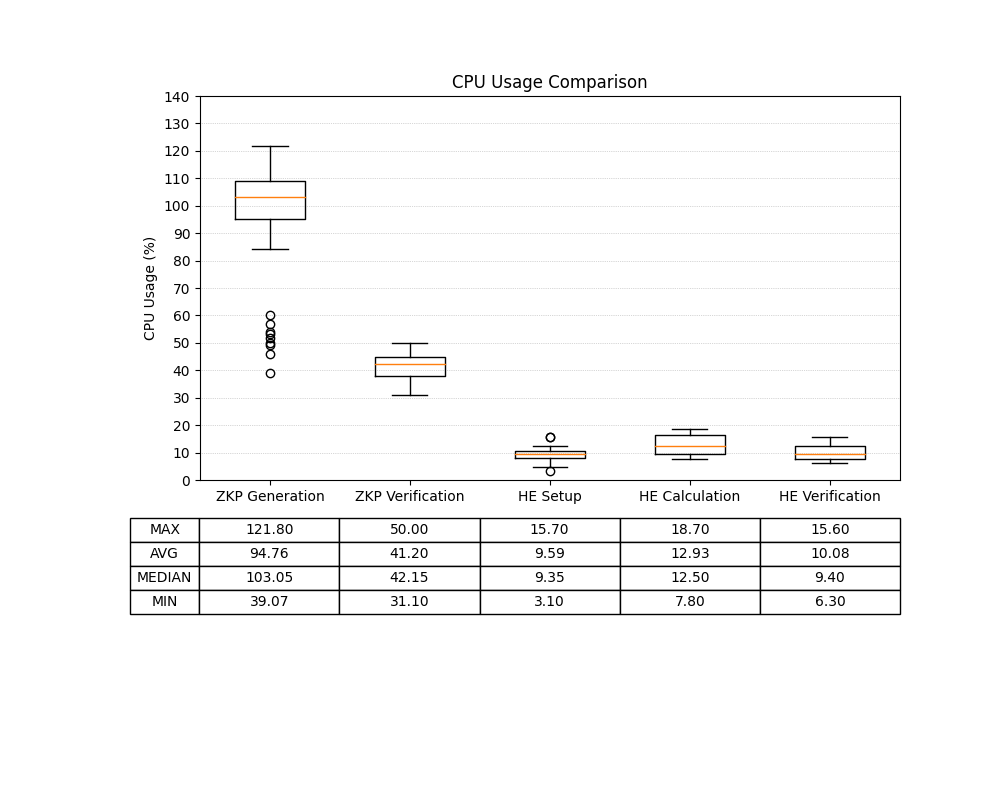
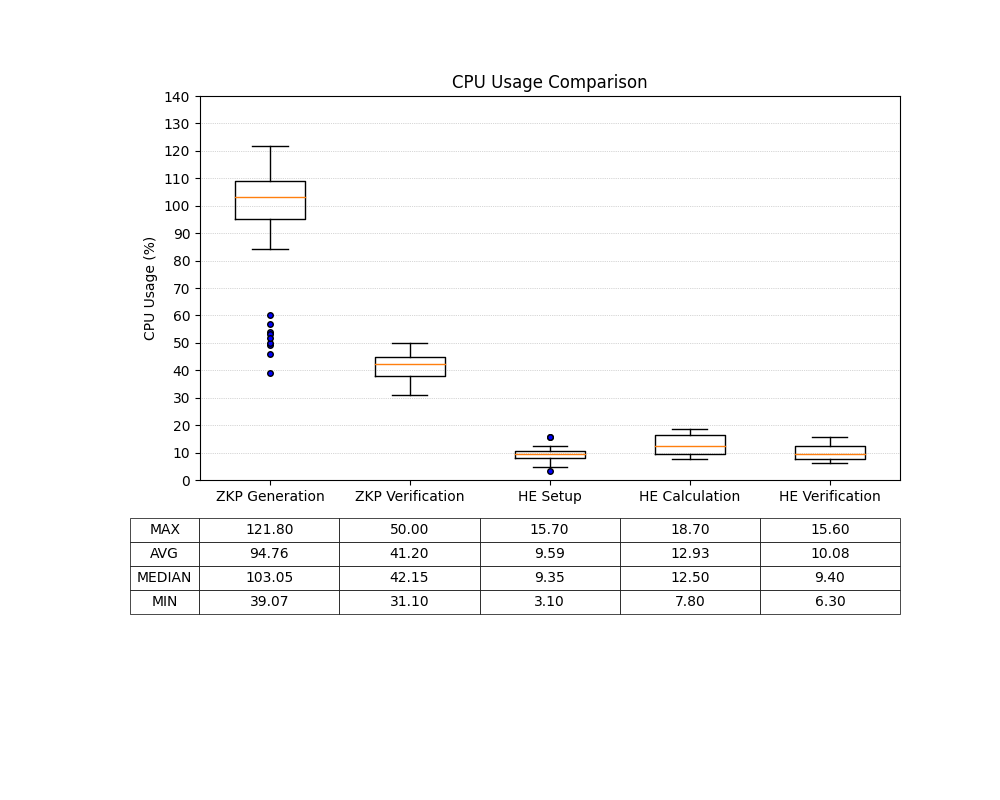
improve graph and table design

Changed region(s): [[0.124, 0.625, 0.899, 0.7812], [0.248, 0.375, 0.279, 0.4688], [0.527, 0.5312, 0.558, 0.5625]]

diff --git a/evaluation/generateGraphs.py b/evaluation/generateGraphs.py
@@ -31,14 +31,17 @@ def filter_non_zero(data):
 
 def plot_comparison(data, labels, title, y_label, filename):
     fig, ax = plt.subplots(figsize=(10, 8))
-    ax.boxplot(data, labels=labels)
+
+    # Adjust flierprops to fill the outlier dots with blue and make them smaller
+    flierprops = dict(marker='o', color='red', markersize=4, markerfacecolor='blue')
+    ax.boxplot(data, labels=labels, flierprops=flierprops)
+
     ax.set_title(title)
     ax.set_ylabel(y_label)
     ax.set_ylim(bottom=0)
     ax.grid(axis='y', linestyle=':', linewidth=0.5)  # Add dotted horizontal grid lines
 
     # Increase the number of y-axis ticks
-    ax = plt.gca()
     y_ticks = ax.get_yticks()
     new_y_ticks = []
     for i in range(1, len(y_ticks)):
@@ -68,6 +71,10 @@ def plot_comparison(data, labels, title, y_label, filename):
                       colWidths=col_widths, bbox=[-0.1, -0.35, 1.1, 0.25])
     table.auto_set_font_size(False)
     table.set_fontsize(10)
+
+    # Set the borderlines to be thinner
+    for key, cell in table.get_celld().items():
+        cell.set_linewidth(0.5)
 
     plt.subplots_adjust(left=0.2, bottom=0.4)
     plt.tight_layout(rect=[1, 0.1, 1, 0.95])
